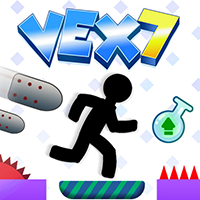
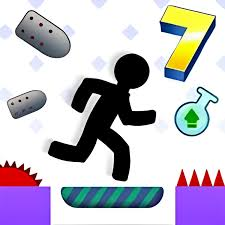
added games

diff --git a/vex7.html b/vex7.html
@@ -1,0 +1,223 @@
+<!DOCTYPE html>
+<html lang="en">
+
+<head>
+  <script async src="https://pagead2.googlesyndication.com/pagead/js/adsbygoogle.js?client=ca-pub-9835219927652942"
+    crossorigin="anonymous"></script>
+
+  <meta charset="UTF-8">
+  <meta name="viewport" content="width=device-width, initial-scale=1.0">
+  <title>Vex 7</title>
+  <script async src="https://www.googletagmanager.com/gtag/js?id=G-T0ETD8FE1B"></script>
+  <script>
+    window.dataLayer = window.dataLayer || [];
+    function gtag(){dataLayer.push(arguments);}
+    gtag('js', new Date());
+    gtag('config', 'G-T0ETD8FE1B');
+  </script>
+  <style>
+    body, html {
+      margin: 0;
+      padding: 0;
+      width: 100%;
+      height: 100%;
+      overflow: hidden;
+      position: relative;
+      background-color: #f0f0f0;
+    }
+
+    .content {
+      position: absolute;
+      top: 50%;
+      left: 50%;
+      transform: translate(-50%, -50%);
+      width: 73%;
+      height: 73%;
+      overflow: hidden;
+      border: 2px solid #ccc;
+      border-radius: 10px;
+      box-shadow: 0 4px 8px rgba(0, 0, 0, 0.1);
+    }
+
+    iframe {
+      width: 100%;
+      height: 100%;
+      border: none;
+    }
+
+    .fullscreen-button, .home-button {
+      position: absolute;
+      font-size: 16px;
+      border: none;
+      border-radius: 5px;
+      cursor: pointer;
+      z-index: 1;
+      transition: background-color 0.3s ease, transform 0.3s ease;
+    }
+
+    .fullscreen-button {
+      bottom: 10px;
+      right: 10px;
+      background: linear-gradient(to right, #ff6b6b, #556270);
+      color: #fff;
+      padding: 10px 20px;
+      box-shadow: 0 4px 8px rgba(0, 0, 0, 0.1);
+    }
+
+    .fullscreen-button:hover {
+      background: linear-gradient(to right, #ff946b, #445370);
+    }
+
+    .fullscreen-button:active {
+      transform: scale(0.95);
+    }
+
+    .home-button {
+      top: 7px;
+      right: 7px;
+      background: linear-gradient(to right, #4facfe, #00f2fe);
+      color: #fff;
+      padding: 10px 20px;
+      box-shadow: 0 4px 8px rgba(0, 0, 0, 0.1);
+    }
+
+    .home-button:hover {
+      background: linear-gradient(to right, #4facfe, #00acfe);
+    }
+
+    .home-button:active {
+      transform: scale(0.95);
+    }
+
+    .ad-container {
+      width: 100%;
+      text-align: center;
+      margin: 10px 0;
+    }
+
+    .ad-left, .ad-right {
+      position: absolute;
+      top: 50%;
+      transform: translateY(-50%);
+      width: 120px; /* Adjust width as needed */
+      height: auto;
+    }
+
+    .ad-left {
+      left: 10px;
+    }
+
+    .ad-right {
+      right: 10px;
+    }
+
+    .ad-top {
+      position: absolute;
+      top: 0;
+      width: 100%;
+      text-align: center;
+      margin: 10px;
+    }
+
+    .ad-bottom {
+      position: absolute;
+      bottom: 0;
+      width: 100%;
+      text-align: center;
+      margin: 10px;
+    }
+  </style>
+</head>
+
+<body>
+
+  <div class="ad-top">
+    <script async src="https://pagead2.googlesyndication.com/pagead/js/adsbygoogle.js?client=ca-pub-9835219927652942"
+       crossorigin="anonymous"></script>
+    <!-- Horizontal Fixed -->
+    <ins class="adsbygoogle"
+       style="display:inline-block;width:728px;height:90px"
+       data-ad-client="ca-pub-9835219927652942"
+       data-ad-slot="6368022940"></ins>
+    <script>
+       (adsbygoogle = window.adsbygoogle || []).push({});
+    </script>
+  </div>
+
+  <div class="content">
+    <iframe id="gameFrame" src="https://sciencemathlearning.github.io/vex7/" onload="focusGame()"></iframe>
+    <button class="fullscreen-button" onclick="toggleFullScreen()">Fullscreen</button>
+  </div>
+
+  <div class="ad-left">
+    <script async src="https://pagead2.googlesyndication.com/pagead/js/adsbygoogle.js?client=ca-pub-9835219927652942"
+       crossorigin="anonymous"></script>
+    <!-- Vertical Responsive -->
+    <ins class="adsbygoogle"
+       style="display:block"
+       data-ad-client="ca-pub-9835219927652942"
+       data-ad-slot="2950456456"
+       data-ad-format="auto"
+       data-full-width-responsive="true"></ins>
+    <script>
+       (adsbygoogle = window.adsbygoogle || []).push({});
+    </script>
+  </div>
+
+  <div class="ad-right">
+    <script async src="https://pagead2.googlesyndication.com/pagead/js/adsbygoogle.js?client=ca-pub-9835219927652942"
+       crossorigin="anonymous"></script>
+    <!-- Vertical Responsive -->
+    <ins class="adsbygoogle"
+       style="display:block"
+       data-ad-client="ca-pub-9835219927652942"
+       data-ad-slot="2950456456"
+       data-ad-format="auto"
+       data-full-width-responsive="true"></ins>
+    <script>
+       (adsbygoogle = window.adsbygoogle || []).push({});
+    </script>
+  </div>
+
+  <div class="ad-bottom">
+    <script async src="https://pagead2.googlesyndication.com/pagead/js/adsbygoogle.js?client=ca-pub-9835219927652942"
+       crossorigin="anonymous"></script>
+    <!-- Horizontal Fixed -->
+    <ins class="adsbygoogle"
+       style="display:inline-block;width:728px;height:90px"
+       data-ad-client="ca-pub-9835219927652942"
+       data-ad-slot="6368022940"></ins>
+    <script>
+       (adsbygoogle = window.adsbygoogle || []).push({});
+    </script>
+  </div>
+
+  <button class="home-button" onclick="goToHomePage()">Home</button>
+
+  <script>
+    function toggleFullScreen() {
+      var iframe = document.getElementById('gameFrame');
+      if (iframe.requestFullscreen) {
+        iframe.requestFullscreen();
+      } else if (iframe.mozRequestFullScreen) {
+        iframe.mozRequestFullScreen();
+      } else if (iframe.webkitRequestFullscreen) {
+        iframe.webkitRequestFullscreen();
+      } else if (iframe.msRequestFullscreen) {
+        iframe.msRequestFullscreen();
+      }
+      iframe.focus();
+    }
+
+    function focusGame() {
+      var iframe = document.getElementById('gameFrame');
+      iframe.focus();
+    }
+
+    function goToHomePage() {
+      window.location.href = '/';
+    }
+  </script>
+</body>
+
+</html>

diff --git a/index.html b/index.html
@@ -208,9 +208,7 @@
       <span class="visually-hidden">Eggy Car</span>
     </div>
 
-    <div class="flex-item" onclick="window.location.href='/dogeminer.html';" style="background-image: url('images/dogeminer.png'); background-repeat: no-repeat; background-size: cover;">
-      <span class="visually-hidden">Doge Miner</span>
-    </div>
+    
 
     <div class="flex-item" onclick="window.location.href='/motox3m.html';" style="background-image: url('images/motox3m.png'); background-repeat: no-repeat; background-size: cover;">
       <span class="visually-hidden">Moto X3M</span>
@@ -224,6 +222,29 @@
       <span class="visually-hidden">Moto X3M 3</span>
     </div>
 
+        <div class="flex-item" onclick="window.location.href='/motox3mpool.html';" style="background-image: url('images/motox3mpool.jpg'); background-repeat: no-repeat; background-size: cover; color: transparent;">
+          <span>Moto X3M Pool</span>
+        </div>
+
+
+
+        <div class="flex-item" onclick="window.location.href='/motox3mspooky.html';" style="background-image: url('images/moto3mspooky.jpeg'); background-repeat: no-repeat; background-size: cover; color: transparent;">
+          <span>Moto X3M Spooky</span>
+        </div>
+
+
+
+        <div class="flex-item" onclick="window.location.href='/motox3mwinter.html';" style="background-image: url('images/motox3mwinter.jpeg'); background-repeat: no-repeat; background-size: cover; color: transparent;">
+          <span>Moto X3M Winter</span>
+        </div>
+
+
+        <div class="flex-item" onclick="window.location.href='/dogeminer.html';" style="background-image: url('images/dogeminer.png'); background-repeat: no-repeat; background-size: cover;">
+          <span class="visually-hidden">Doge Miner</span>
+        </div>
+
+
+        
         <div class="flex-item" onclick="window.location.href='/driftboss.html';" style="background-image: url('images/driftboss.png'); background-repeat: no-repeat; background-size: cover;">
           <span class="visually-hidden">Drift Boss</span>
         </div>
@@ -534,6 +555,12 @@
         <span>Vex 6</span>
     </div>
 
+
+
+      <div class="flex-item" onclick="window.location.href='/vex7.html';" style="background-image: url('images/vex7.png'); background-repeat: no-repeat; background-size: cover; color: transparent;">
+          <span>Vex 7</span>
+      </div>
+
     <div class="flex-item" onclick="window.location.href='/baldisbasics.html';" style="background-image: url('images/baldisbasics.png'); background-repeat: no-repeat; background-size: cover; color: transparent;">
         <span>Baldi's Basics</span>
     </div>
@@ -662,21 +689,7 @@
 
 
 
-        <div class="flex-item" onclick="window.location.href='/motox3mpool.html';" style="background-image: url('images/motox3mpool.jpg'); background-repeat: no-repeat; background-size: cover; color: transparent;">
-            <span>Moto X3M Pool</span>
-        </div>
-
-
-
-        <div class="flex-item" onclick="window.location.href='/motox3mspooky.html';" style="background-image: url('images/moto3mspooky.jpeg'); background-repeat: no-repeat; background-size: cover; color: transparent;">
-            <span>Moto X3M Spooky</span>
-        </div>
-
-
-
-        <div class="flex-item" onclick="window.location.href='/motox3mwinter.html';" style="background-image: url('images/motox3mwinter.jpeg'); background-repeat: no-repeat; background-size: cover; color: transparent;">
-            <span>Moto X3M Winter</span>
-        </div>
+        
 
 
 
@@ -686,9 +699,7 @@
 
 
 
-        <div class="flex-item" onclick="window.location.href='/burritobisonrevenge.html';" style="background-image: url('images/burritobisonrevenge.jpeg'); background-repeat: no-repeat; background-size: cover; color: transparent;">
-            <span>Burrito Bison Revenge</span>
-        </div>
+        
 
 
         
